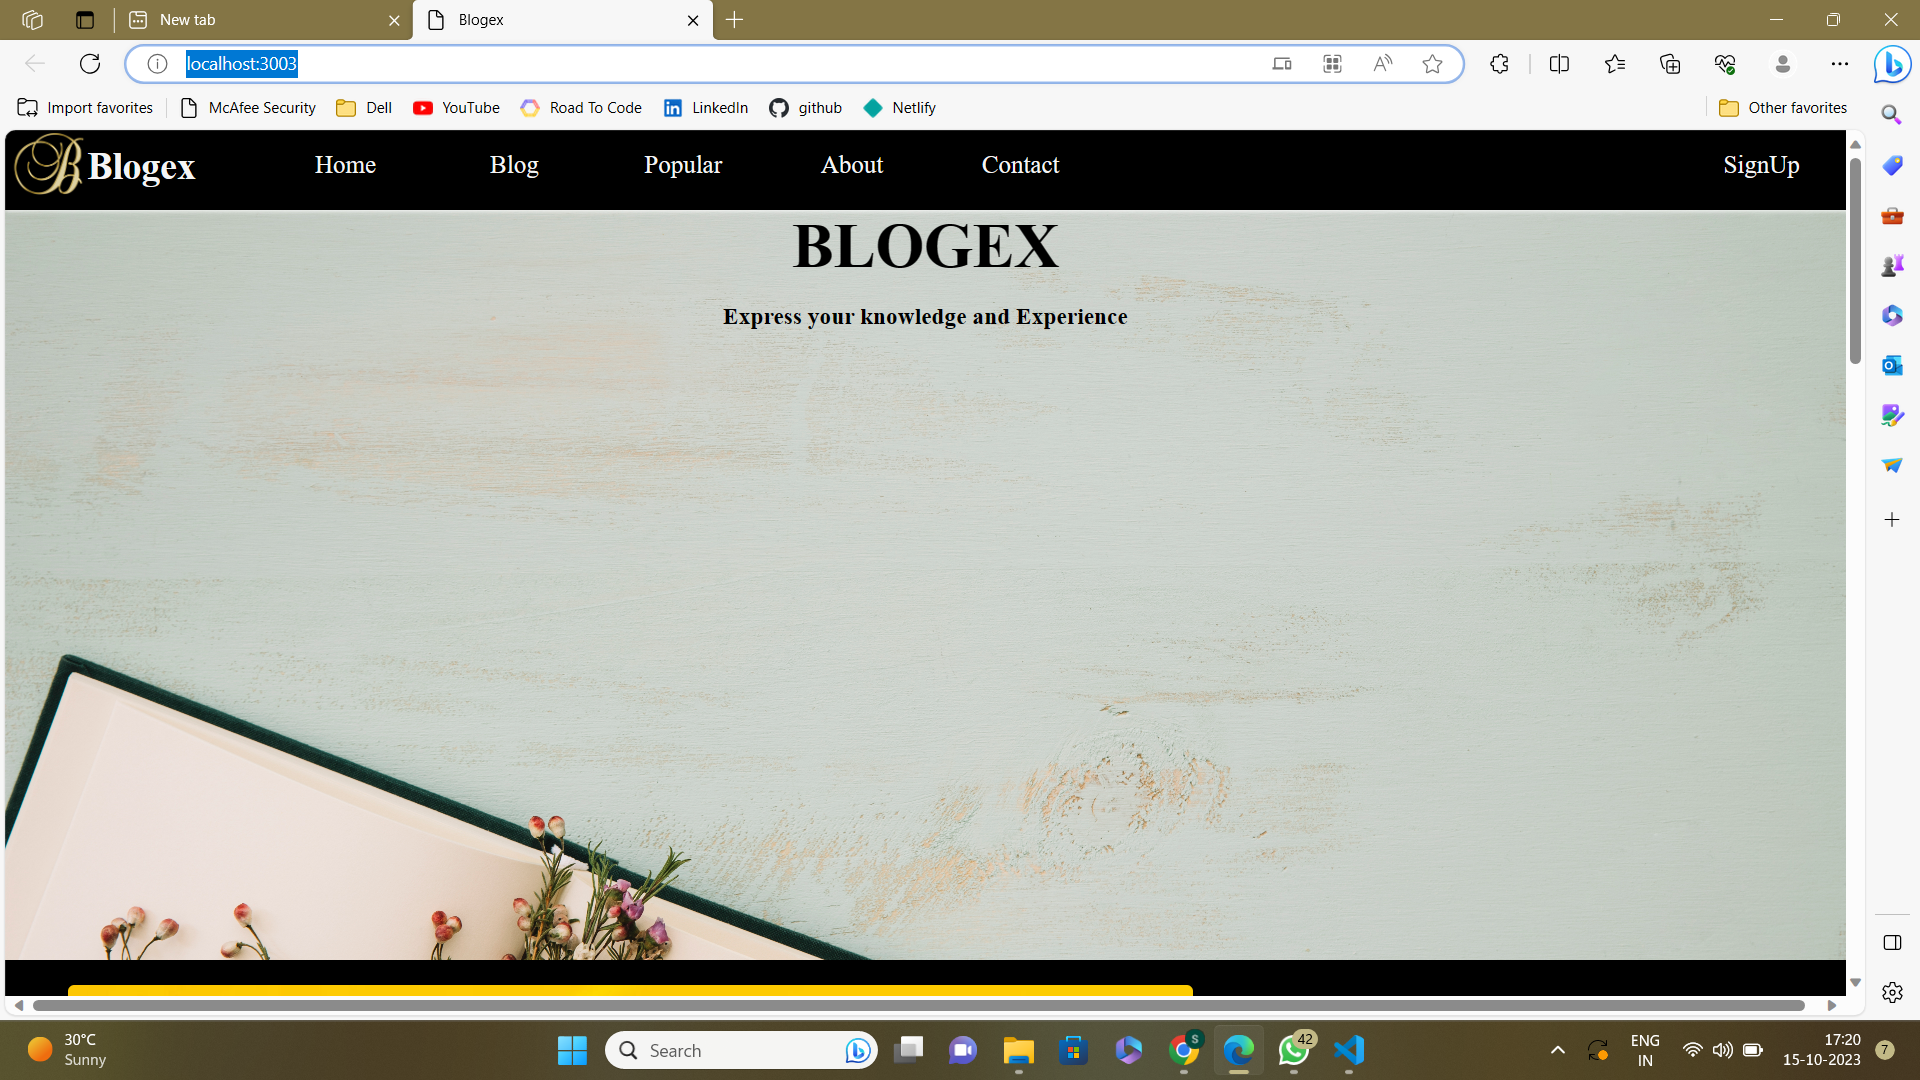
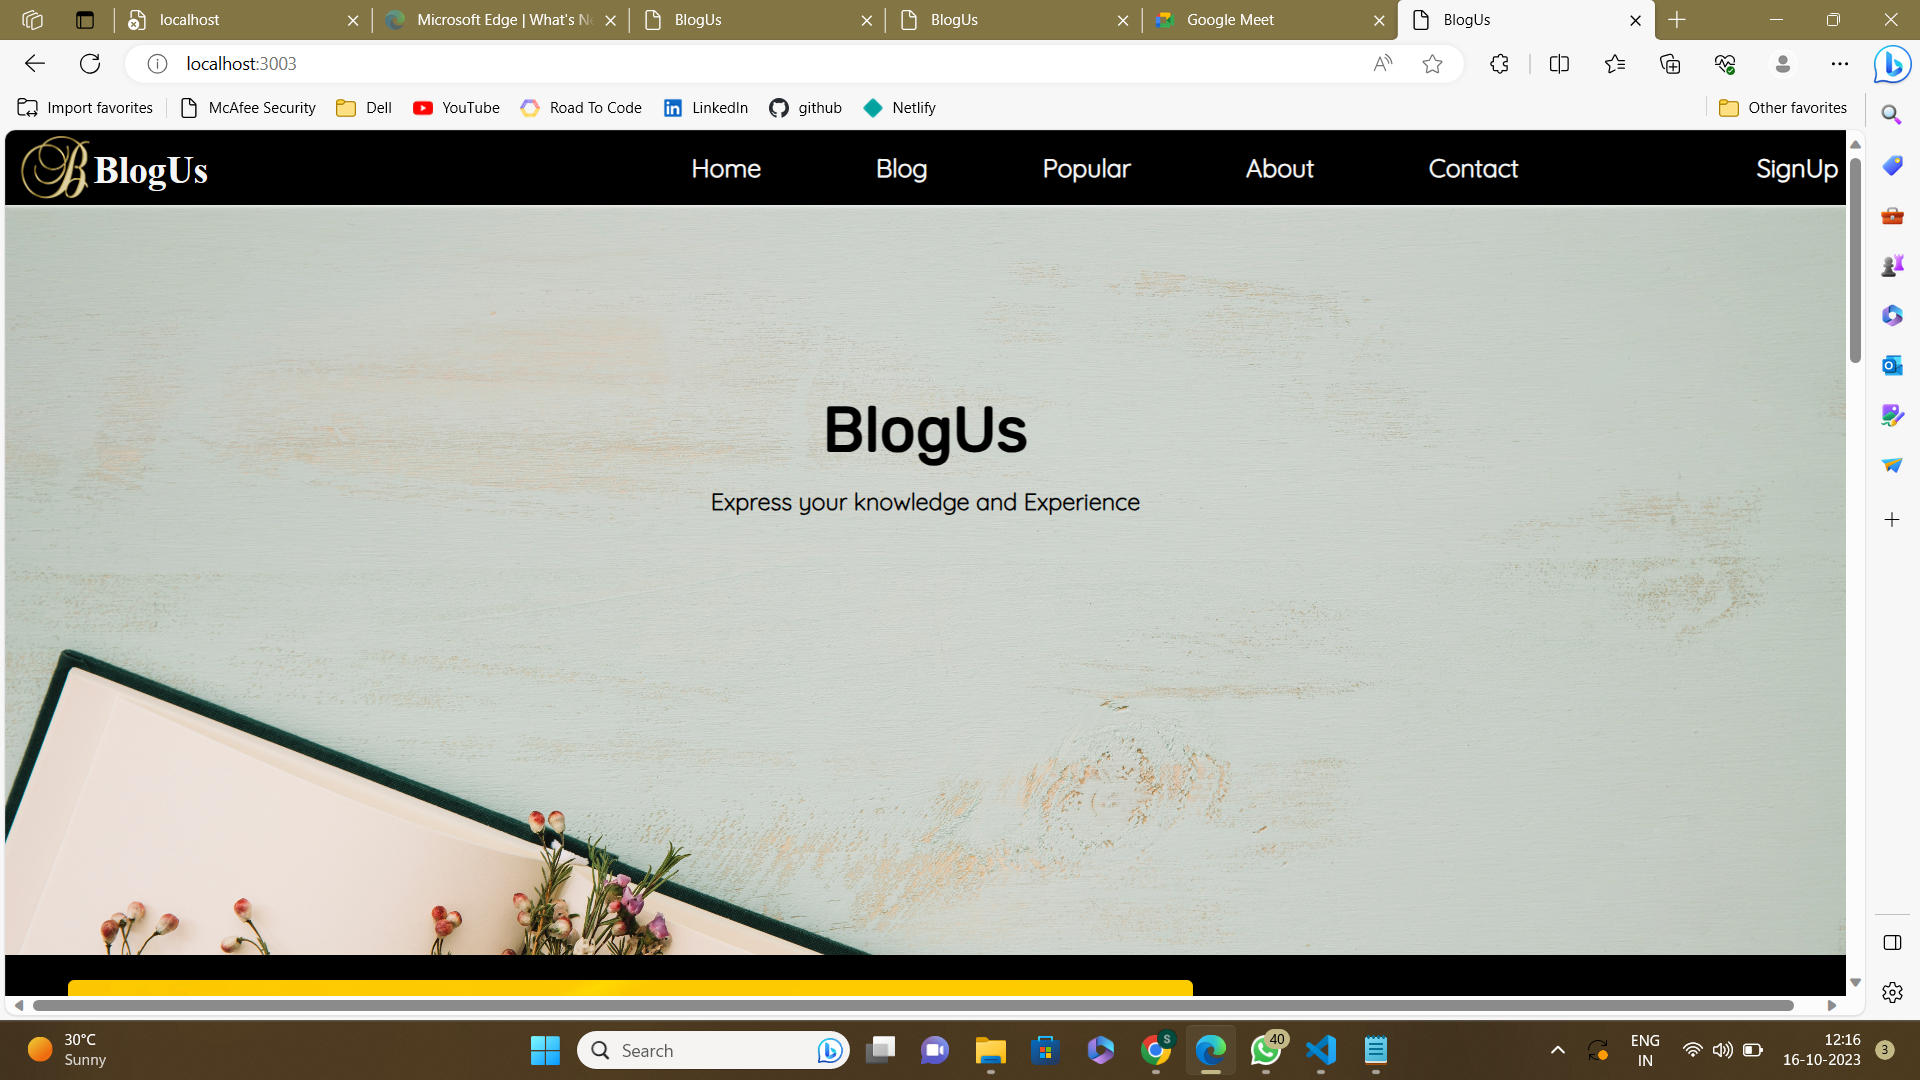
added changes to home page

diff --git a/src/view/home/home.css b/src/view/home/home.css
@@ -1,6 +1,8 @@
 /* 
 yellow: #FCF55F
 */
+@import url('https://fonts.googleapis.com/css2?family=Rubik&display=swap');
+
 
 .titlehome {
     font-size: 50px;
@@ -143,12 +145,25 @@ body {
     background-repeat: no-repeat;
     background-size: cover;
     text-align: center;
-    height: 600px;  
+    height: 600px; 
+    display: flex;
+    flex-direction: column;
 }
-
+.us{
+    color: #E1AD01;
+    font-weight: 900;
+}
 .titlediv{
 font-size: 50px;
+font-family: 'Rubik', sans-serif;
+margin-top: 150px;
 }
+
+/* .startdiv h1{
+    font-size: 50px;
+    font-family: 'Rubik', sans-serif;
+} */
+
 .parent2text{
     text-align: justify;
     font-size: 30px;

diff --git a/src/view/home/home.js b/src/view/home/home.js
@@ -11,7 +11,7 @@ export default function Home() {
         <> 
         <Navbar/>
         <div className="startdiv">
-         <h1 className='titlediv'>BlogUs</h1>
+         <div className='titlediv'>BlogUs</div>
          <h3 className='titlesubdiv'>Express your knowledge and Experience</h3>
         </div>
         

diff --git a/src/Components/Navbar/Navbar.css b/src/Components/Navbar/Navbar.css
@@ -23,6 +23,7 @@
     margin-right: 100px;
     font-size: 30px;
     margin-top: 10px;
+    font-family:'Times New Roman', Times, serif;
 }
 
 .navbar>:nth-child(2) {

diff --git a/README.md b/README.md
@@ -12,6 +12,14 @@
 
 ![Popular page screenshot](./src/popular.png)
 
+## <u>Blogwriting page
+
+![Signup page screenshot](./src/blogwriting.png)
+
+## <u>About page
+
+![Signup page screenshot](./src/signup.png)
+
 ## <u>Signup page
 
 ![Signup page screenshot](./src/signup.png)
